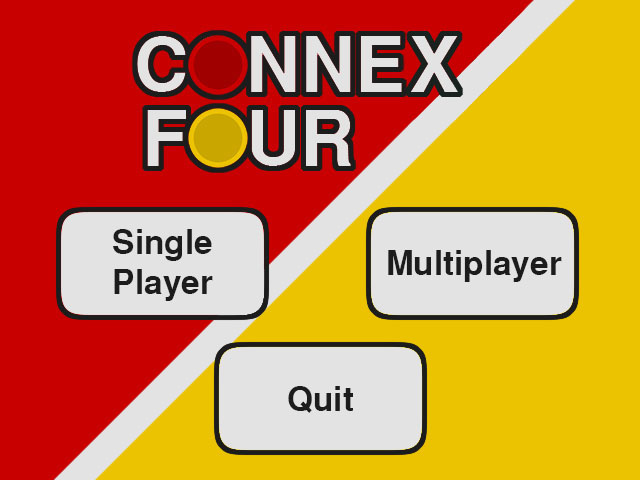
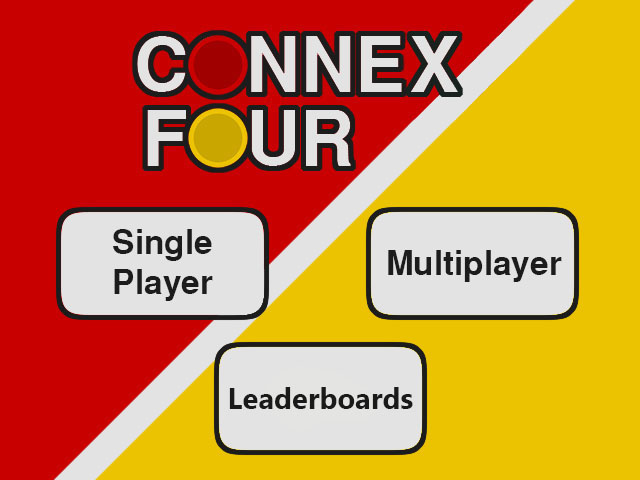
Commit

Changed region(s): [[0.3438, 0.7812, 0.6562, 0.875]]

diff --git a/leaderboard.js b/leaderboard.js
@@ -15,7 +15,7 @@ leaderBoard.prototype.loadImg = function() {
 leaderBoard.prototype.drawImgBoard = function () {
     ctx.drawImage(this.boardImg, 0, 0);
     ctx.font = 'bold 20pt Calibri';
-    for(var i=0; i<leaderboardData.length; i++)
+    for(var i=0; i<leaderboardData.length && i<10; i++)
     {
         ctx.textAlign="center"; 
         ctx.fillText(leaderboardData[i].formattedScoreRank, 85, 110+(i*30));

diff --git a/menu.js b/menu.js
@@ -50,9 +50,6 @@ menu.prototype.clicked = function(x,y){
     gamestate="createJoin";
   }
   else if(x>=214*ratioWidht && x<=426*ratioWidht && y>=316*ratioHeight && y<=454*ratioHeight){
-    gamestate="quit";
-  }
-  else{
     gamestate="leaderboard";
     if(googleAPILoaded){
       loadLeaderboard('CgkIw5Xv3M4GEAIQAQ','ALL_TIME','PUBLIC');

diff --git a/game.js b/game.js
@@ -80,11 +80,6 @@ function update(){
         WinS.DrawImgDrawScreen();
         //Player 2 win screen
     }
-    
-    
-    if(gamestate == "quit"){
-      //QUIT code
-    }
 
     multiplayerController();
 	
